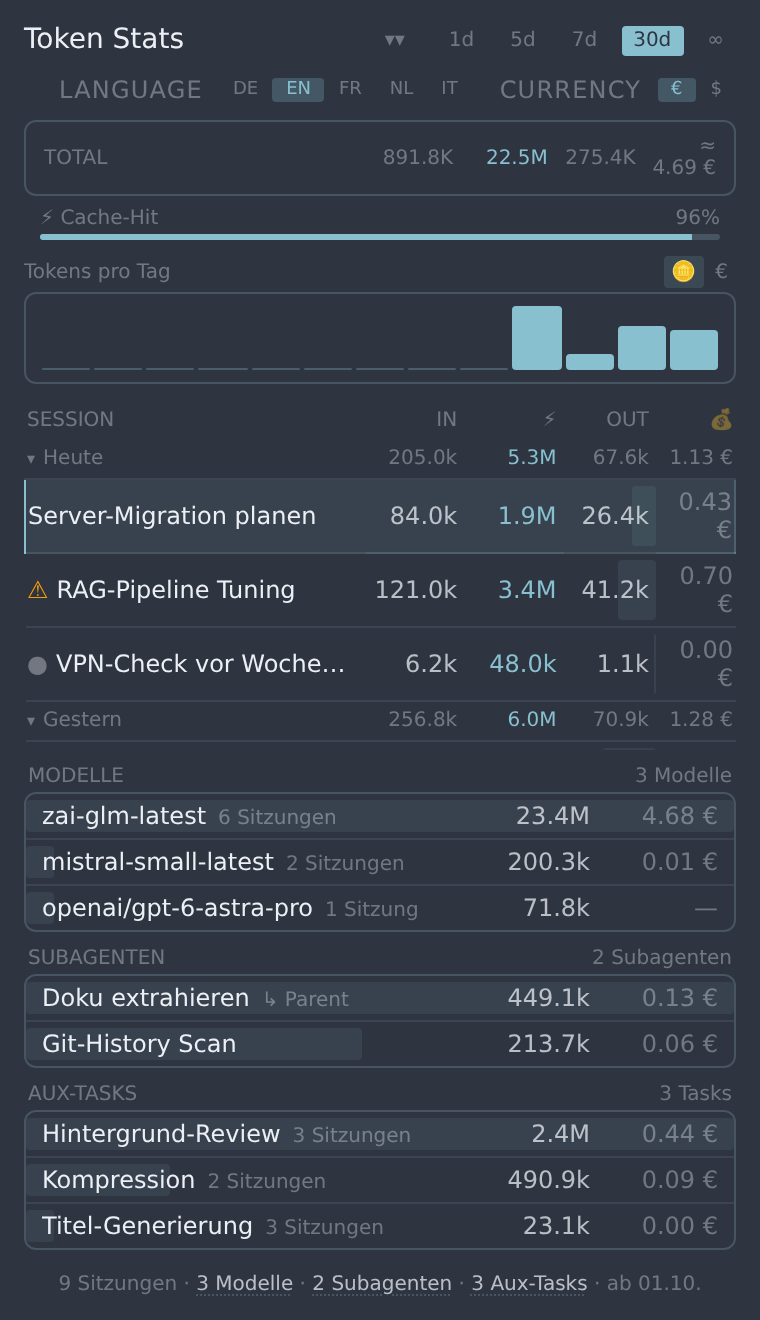
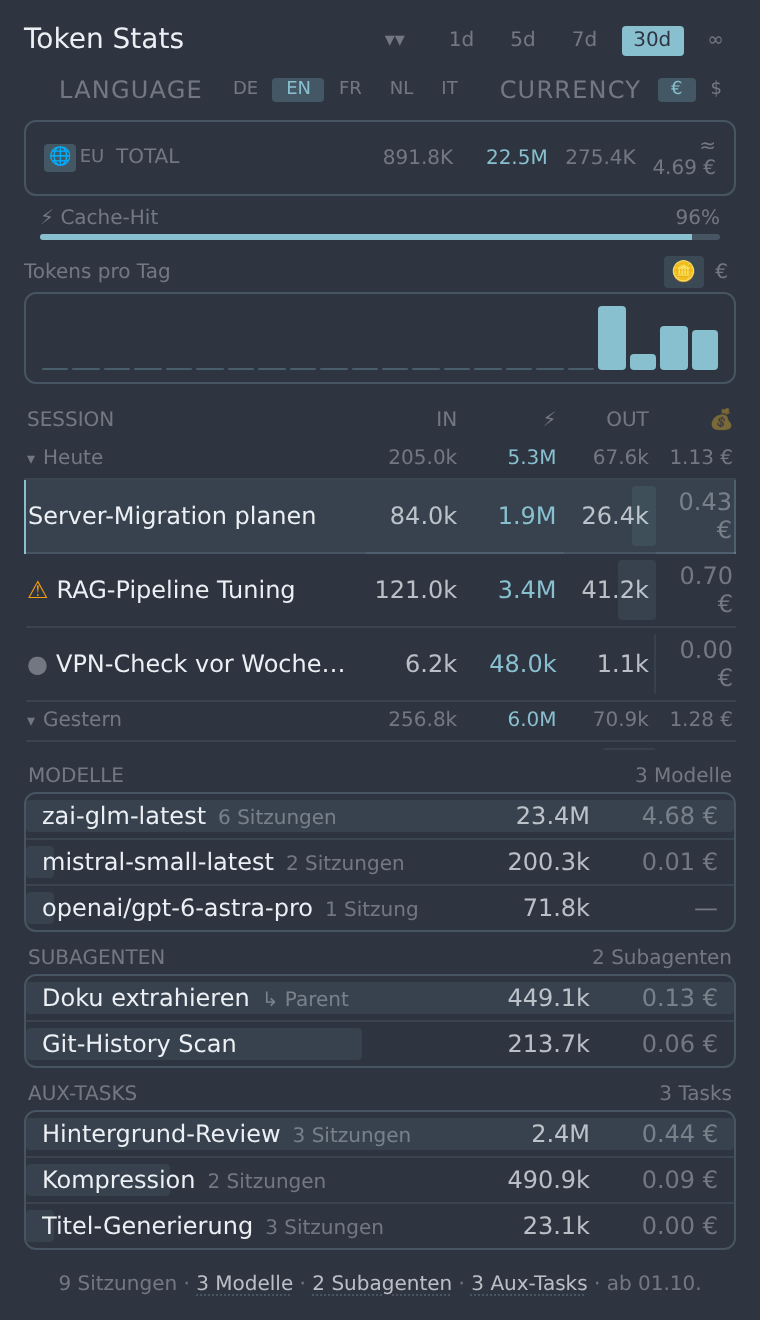
docs: region toggle section, screenshot with summary-box 🌐/EU toggle (v5.1.1)

Changed region(s): [[0.6658, 0.2174, 0.9079, 0.2795], [0.0605, 0.0932, 0.2118, 0.1553]]

diff --git a/docs/pane-mockup.html b/docs/pane-mockup.html
@@ -358,8 +358,19 @@ const langCurRow = el('div', 'flex items-center justify-end gap-2 shrink-0', 'ma
 ])
 
 // Summary card
+// v5.1.1: region toggle (🌐/EU) inline before the Total label — compact
+// 16×14px buttons, verbatim port of the live plugin's summary-box toggle
+// (v5.1.0 put it in the header row; v5.1.1 moved it here on request).
+const regBtn = (label, active) => el('button', null,
+  (active
+    ? 'background:color-mix(in srgb, var(--ui-accent) 25%, transparent);color:var(--ui-accent);font-weight:500;'
+    : 'color:var(--ui-text-quaternary);') +
+  'cursor:pointer;font-size:9px;line-height:14px;width:16px;height:14px;padding:0;border-radius:2px;text-align:center;vertical-align:middle;', txt(label))
 const summaryRow = el('tr', 'text-quaternary text-[0.625rem] uppercase', null, [
-  el('td', null, `width:${W[0]}%`, txt('Total')),
+  el('td', null, `width:${W[0]}%`, [
+    el('span', 'inline-flex items-center gap-0.5 align-middle', 'margin-right:4px;vertical-align:middle;', [
+      regBtn('🌐', true), regBtn('EU', false)]),
+    txt('Total')]),
   el('td', 'text-right px-1 tabular-nums font-medium', `width:${W[1]}%`, txt(fmt(grandInput))),
   el('td', 'text-right px-1 tabular-nums font-medium text-accent', `width:${W[2]}%`,
     txt(fmt(grandCached))),

diff --git a/README.md b/README.md
@@ -34,6 +34,22 @@ AND a row in the pane header (same controls, always in sync) — language
 - **Further languages**: open an issue with the *Language request*
   template — a new language is a dictionary addition, no UI code.
 
+**Region (EU endpoint) toggle (v5.1.x)** — 🌐/EU segmented buttons in the
+aggregate summary box (directly before the TOTAL label) and in the chip
+menu; same atom on both surfaces:
+
+- **🌐 Global (default)**: PAYG-equivalent costs at Mistral's global list
+  prices (api.mistral.ai).
+- **EU**: the premium of Mistral's dedicated EU endpoint
+  (api.eu.mistral.ai) — a flat **1.1×** on all token prices (input,
+  cache-read, output), matching Mistral's EU data-residency pricing.
+- The factor applies at the single pricing choke point, so chip, summary,
+  histogram €-metric, day separators and all breakdown lists flip
+  together. Unpriced rows stay `—`, free models stay `0,00 €` — the
+  factor never fabricates a price.
+- Persisted like language/currency (`token-stats:region`), same key on
+  desktop and web.
+
 Every metric is toggleable via a click menu on the chip (popover, ●/○ state);
 the selection persists via `ctx.storage` (`hermes.plugin.token-stats.chipShow`)
 across app restarts. At least one metric stays visible — hiding all is blocked.
@@ -65,7 +81,8 @@ live-only). Since v4.4:
 
 *Example rendering with sample data (Nord theme): language + currency
 toggles (EN / € active), calendar range presets*
-(1d/5d/7d/30d/∞, 30d active), grand-total summary aligned to the table
+(1d/5d/7d/30d/∞, 30d active), region toggle (🌐/EU) in the grand-total
+summary box, grand-total summary aligned to the table
 columns, ⚡ cache-hit bar, mini histogram (tokens per day over the window),
 collapsible day-group separator rows with per-day totals, focused session
 highlighted with the accent left border. `●` marks a live-only session, `⚠`
@@ -122,6 +139,9 @@ known-ledger backend). It renders as a dashboard page at `/token-stats`:
 - Language and currency toggles in the pane header (since web.1; the
   histogram's cost-metric icon follows the currency since web.2),
   persisted with the same `localStorage` keys as the desktop
+- Region (EU endpoint) toggle in the summary box before the Total label
+  (since web.3 / v5.1.1-web.1), same pricing factor and `localStorage`
+  key as the desktop
 
 No separate install: it deploys with the backend (`install.sh` of the
 [companion repo](https://github.com/AndiAtom/hermes-usage-history-rpc)),
@@ -228,6 +248,17 @@ The gateway's `input` already **excludes** cached tokens
 (Mistral's own GLM listing: $1.40 ↔ €1.19).
 
 ## Roadmap
+
+**Shipped in v5.1.x** — region (EU endpoint) pricing toggle for both the
+desktop pane and the web dashboard pane:
+
+- **Region toggle** — 🌐/EU segmented buttons in the summary box (before
+  the TOTAL label) and in the chip menu; EU mode multiplies all token
+  prices by 1.1 (Mistral's api.eu.mistral.ai premium)
+- Same `localStorage` key on both surfaces (`token-stats:region`);
+  unpriced rows stay `—`, free models stay `0,00 €` in EU mode
+- Web dashboard moved to lockstep versioning with the desktop
+  (v5.1.1 ↔ v5.1.1-web.1)
 
 **Shipped in v5.0.x** — language & currency support for both the desktop
 pane and the web dashboard pane:
